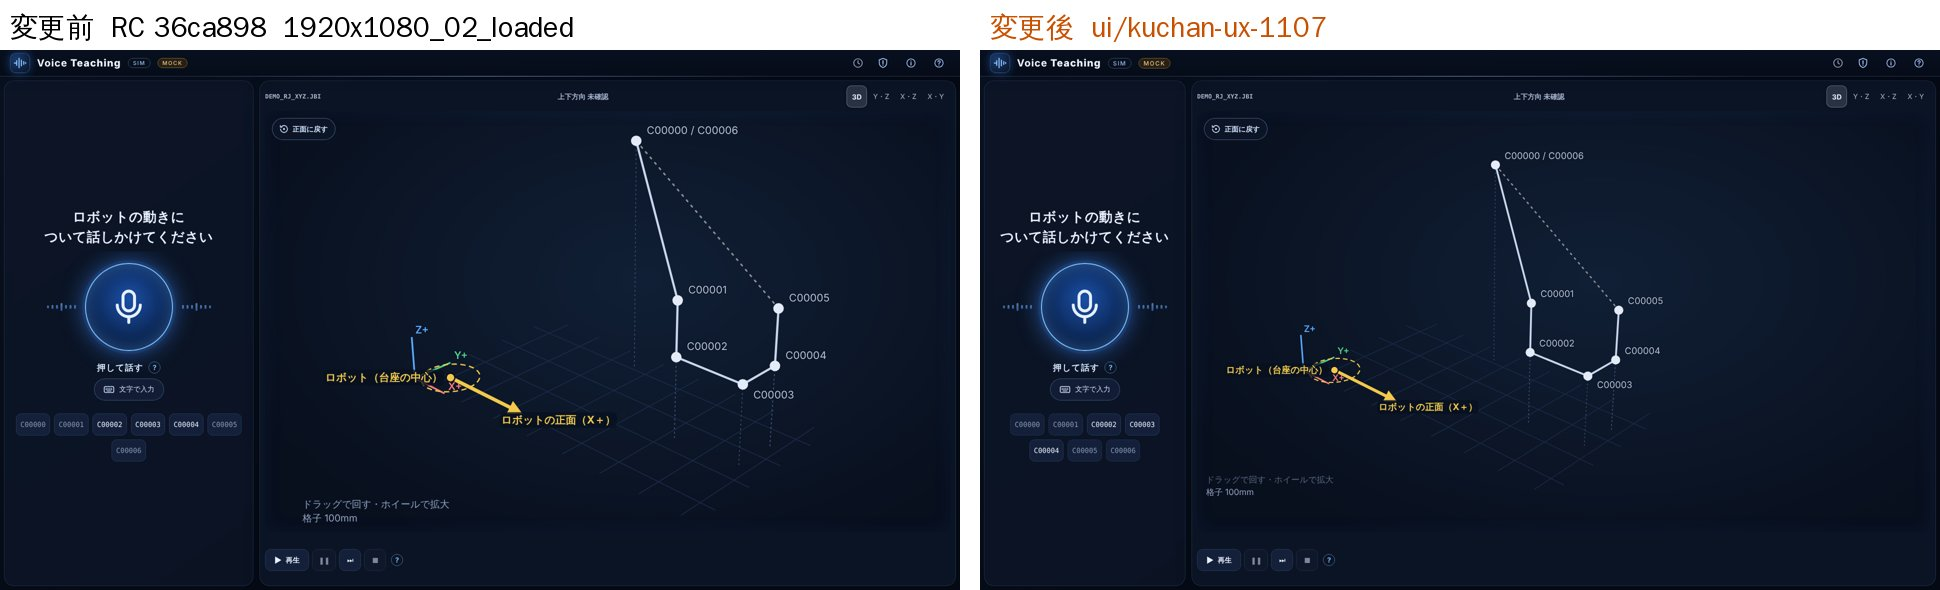
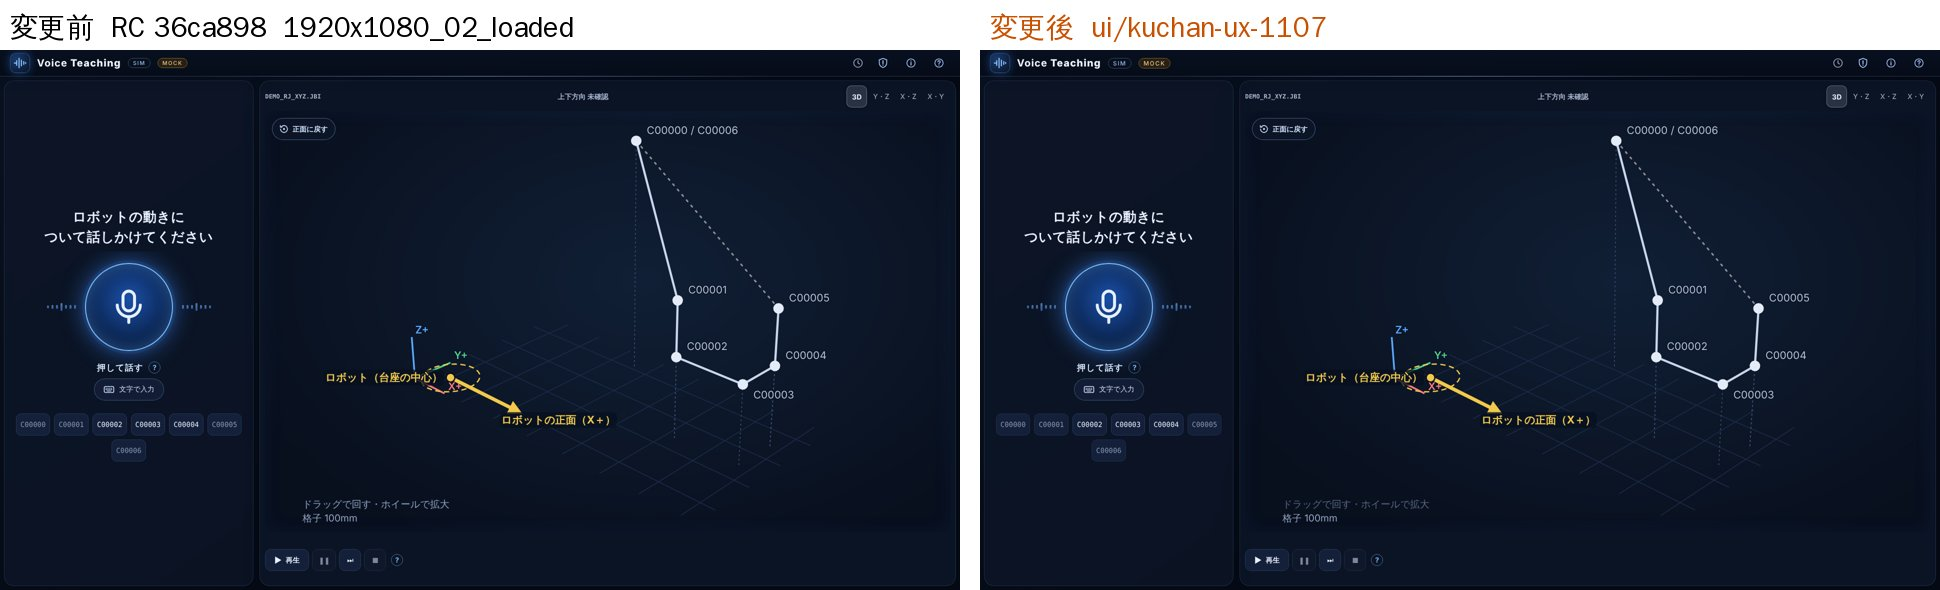
UI精査 11/7（クーちゃん）：K1 を「会話の欄の上に重ねる」置き方に変更（3D を小さくしない）・撮影の計測・報告の更新
何を：
- K1 の最初の案（3D の枠の右を空ける）は、1920 で 3D が 13% 小さくなり、e2e の 11/5 F6（3D は小さくならない）が 5件 NG、
  会話の欄を細くしたため最新の答えが切れたので捨てた
- 1100〜1499px で決まっている置き方（候補のポップアップを会話の欄の上に重ねる）を 1500px 以上にもそろえた。
  1920 の候補・確認・承認・出力で、ポップアップの下の 3D の点 3→0、3D の倍率は RC と同じ（1.754）
- K2 を 1100px 以上に（重ねたポップアップをひと続きの面に）
- tools/kuchan_ux_shots.py：ポップアップの下に隠れた点の数（pointsUnderPopup）を測る
- 比較画像 24枚・計測値・報告を更新
app.js・HTML・サーバー・安全の判定・承認・出力は変えていない。

Claude-Session: https://claude.ai/code/session_014pJhiXn87MDCBVibtKvnau

diff --git a/voice_teaching/web/static/style.css b/voice_teaching/web/static/style.css
@@ -1632,18 +1632,20 @@ body.hero #kbd-button > span { display: inline; font-size: 14px; }
    安全の表示（SIM・盾・20mm・差分・承認・止めた理由）は消さない・小さくしない。 */
 
 /* K1（P1）1500px 以上：候補のポップアップが、動かす点・変更の線・拡大の窓を隠さない。
-   JOB を読んだときから 3D の枠の右にポップアップの幅を空けておく（11/5 F7：候補の前後で 3D の点は動かさない、を守る） */
+   1100〜1499px で決めてある置き方（会話の欄の上に重ねる）を 1500px 以上にもそろえる。3D の大きさ・点の位置は変えない（11/5 F6・F7）。
+   見出し（動きを確かめてください）と、下の文字の入力欄（承認のあとの質問）はふさがない。ポップアップの中身は最新の答えと同じ候補 */
 @media (min-width: 1500px) {
-  .fig-wrap .fig-3d { right: 372px; }
-  .cand-pop { width: 356px; right: 12px; }
+  .stage { backdrop-filter: none; }  /* fixed の基準を画面にする */
+  .fig-wrap { overflow: visible; }
+  .cand-pop { position: fixed; left: 10px; right: auto; top: 112px; bottom: 150px; max-height: none; z-index: 6;
+    width: 500px; }  /* 会話の欄（left 10px・幅 500px）にぴったり重ねる */
 }
-/* 1920×1080：会話の欄を少し細くして、3D の大きさを前と同じ程度に保つ（会話の文字の大きさは変えない） */
 @media (min-width: 1700px) and (min-height: 950px) {
-  .work { grid-template-columns: clamp(380px, 21vw, 420px) minmax(0, 1fr); }
+  .cand-pop { left: 8px; width: min(26vw, 500px); top: 118px; bottom: 156px; }  /* 会話の欄（left 8px・幅 26vw）に合わせる */
 }
 
-/* K2（P2）1100〜1499px：ポップアップを会話の欄の上に重ねるとき、後ろの吹き出しが切れて覗かないよう、ひと続きの面にする */
-@media (min-width: 1100px) and (max-width: 1499px) {
+/* K2（P2）1100px 以上：ポップアップを会話の欄の上に重ねるとき、後ろの吹き出しが切れて覗かないよう、ひと続きの面にする */
+@media (min-width: 1100px) {
   .cand-pop { background: #0a1324; border-radius: 16px; box-shadow: 0 0 0 1px var(--glass-line), 0 18px 40px rgba(0, 0, 0, 0.55); }
   .cand-pop .cand-card, .cand-pop .dock-actions { box-shadow: none; }
 }

diff --git a/docs/ui-kuchan-1107/REPORT_UI_UX_KUCHAN_1107.md b/docs/ui-kuchan-1107/REPORT_UI_UX_KUCHAN_1107.md
@@ -13,7 +13,7 @@
 
 ## 1. 結論（先に）
 
-1. **P1：1920×1080（撮影の大きさ）で、候補のポップアップが「動かす点 C00004・変更のオレンジの線・C00005」を隠していた**。動画でいちばん見せたい場面で、変更の中身が見えない。→ **K1 で解消**（点は1つも隠れない。11/5 F7「候補の前後で 3D の点を動かさない」も守る）。
+1. **P1：1920×1080（撮影の大きさ）で、候補のポップアップが「動かす点 C00004・変更のオレンジの線・C00003・C00005」を隠していた**（候補・確認・承認・出力の4場面すべて）。動画でいちばん見せたい場面で、変更の中身が見えない。→ **K1 で解消**：1100〜1499px で既に決まっている置き方（会話の欄の上に重ねる）を 1500px 以上にもそろえた。**隠れる点 3→0、3D の大きさは RC と同じ**（11/5 F6・F7 を守る）。
 2. 1280〜1440 で、会話の上に重ねたポップアップの隙間から、後ろの吹き出しが切れて覗いていた → **K2 で解消**。
 3. 他は P2〜P3 の磨き込み（K3〜K8）。文言や動きの変更が要るものは**提案だけ**（4章）。シクロの app.js・安全の文は触っていない。
 4. テスト：pytest・Node・e2e の結果は 5章。
@@ -25,8 +25,8 @@
 
 | 観点 | 見つけたこと（事実） | 重さ | 対応 |
 |---|---|---|---|
-| 大きく見やすい 3D | 1920：候補のポップアップ（右下 380px）が C00003〜C00005・変更の線・拡大の窓の一部を覆う | **P1** | **K1 実装** |
-| 大きく見やすい 3D | 3D の面積：1920 で画面の 55.7%、1440 で 46.8%、1280 で 42.6% | — | K1 のあとも 1920 で同程度を保つ（会話の欄を 460→420px） |
+| 大きく見やすい 3D | 1920：候補のポップアップ（3D の右下 380px）が C00003・C00004・C00005 と変更の線を覆う（測定：`pointsUnderPopup`） | **P1** | **K1 実装** |
+| 大きく見やすい 3D | 3D の面積：1920 で画面の 55.7%、1440 で 46.8%、1280 で 42.6% | — | K1 のあとも同じ（描く倍率 1.754／1.245／1.033 で前後同じ） |
 | 会話を覆わない | 1100〜1499：ポップアップは会話の欄の上に重ねる仕様（前の決定）。隙間から切れた吹き出しが覗く | P2 | **K2 実装**（ひと続きの面にした） |
 | ボタンの配置 | 1920：「シミュレーション用に出力（合成ジョブだけ・実機に入れない）」が細いボタンで3行に折り返す | P2 | **K3 実装**（1500px 以上で横いっぱい→2行。文は省かない） |
 | 空送信 | 入力欄が空でも「送る」が押せる見た目（押しても JS が無視するので送らない。安全上の問題ではない） | P2 | **K4 実装**（空のときは薄く・押せない見た目） |
@@ -41,9 +41,8 @@
 
 | ID | 内容 | 大きさ | 前→後（測った値） |
 |---|---|---|---|
-| K1 | JOB を読んだときから 3D の枠の右にポップアップの幅（372px）を空けて、点を収める。ポップアップは 356px | ≥1500px | 1920 の候補・承認・出力の場面：**ポップアップの下の点 3つ → 0**（`pointsUnderPopup`）。候補の前後で点は動かない（F7） |
-| K1 | 1920×1080 だけ会話の欄 `clamp(400,24vw,470)`→`clamp(380,21vw,420)` | ≥1700×950 | 3D の描かれる大きさはほぼ同じ（右を空けた分を左で取り戻す） |
-| K2 | 会話の上に重ねたポップアップを、背景つきのひと続きの面に | 1100〜1499px | 覗いていた吹き出しの切れ端が消えた |
+| K1 | 候補のポップアップを、会話の欄の上にぴったり重ねる（1100〜1499px の今の決まりと同じ置き方）。見出しと下の文字の入力欄はふさがない | ≥1500px | 1920 の候補・確認・承認・出力の4場面：**ポップアップの下の点 3つ → 0**。3D の倍率 1.754→1.754（変わらない）。候補の前後で点は動かない（F7） |
+| K2 | 会話の上に重ねたポップアップを、背景つきのひと続きの面に | ≥1100px | 覗いていた吹き出しの切れ端が消えた |
 | K3 | 主なボタン（確認して承認へ・出力）を横いっぱいに。「元に戻す」はその下 | ≥1500px | 出力のボタンの文 3行→2行 |
 | K4 | 空のとき「送る」を薄く・押せない見た目に | 全部 | — |
 | K5 | 吹き出しの「人」の文字を消す（アイコンは残す）・短い発話の空きをなくす | 全部 | — |
@@ -53,7 +52,9 @@
 
 ### 3-1. やめた案（理由つき）
 - K3 を 1280・1440 にも広げる案：「元に戻す」が1行増え、承認のあとの「ロボットへの送信：していません」がポップアップのスクロールの下に隠れた（1280×720 で確認）。**安全の表示を優先して 1500px 以上だけ**にした。
-- 候補が出たときだけ 3D を縮める案：11/5 F7（候補の前後で点を動かさない）に反するのでやめ、最初から右を空ける形にした。
+- 候補が出たときだけ 3D を縮める案：11/5 F7（候補の前後で点を動かさない）に反するのでやめた。
+- **K1 の最初の案（JOB を読んだときから 3D の枠の右に 372px を空ける）**：点は隠れなくなったが、1920 で 3D の倍率が 1.754→1.521（**13% 小さい**）になり、e2e の 11/5 F6「3D は小さくならない」が 5件 NG、会話の欄を細くしたため「最新の答えが会話の欄で切れる」も出た。**3D を大きく見せる方を優先して捨てた**。
+- 今の K1 は、計画の「候補パネルが会話を覆わない」と字面では合わない。ただし 1100〜1499px では前から同じ置き方が決まっていて、ポップアップの中身は最新の答えと同じ候補（対象・差分・注意・承認の状態）、下の文字の入力欄は見えたまま。**覆うのは候補を確かめている間だけ**。この判断は唐川さんに確認したい（8章）。
 
 ## 4. シクロへの提案（app.js・文言・HTML が要るので、実装していない）
 
@@ -85,7 +86,7 @@
 - **取り込みの状態：未統合**（RC には入っていない）。取り込むかはシクロが差分・テストを見て判断し、唐川さんが承認。
 - 取り込み方：`ui/kuchan-ux-1107` の style.css の変更は**末尾の1つの塊だけ**なので、`git cherry-pick <SHA>` か、塊をそのまま RC の style.css の末尾に貼れば入る。戻すときは塊ごと消せばよい。
 - ぶつかり：RC で style.css の末尾を同時に直していると、末尾でぶつかる可能性がある（中身は独立なので、両方残せばよい）。
-- 動画との関係：K1 は**1920×1080 の撮影の見え方を良くする**（候補の場面で変更の点が隠れない）。12時の判定で動画用の SHA を決める前に取り込むのがよい。取り込まないなら、撮影は候補のポップアップが点にかぶらない JOB・視点を選ぶ必要がある。
+- 動画との関係：K1 は**1920×1080 の撮影の見え方を良くする**（候補の場面で変更の点とオレンジの線が隠れない）。12時の判定で動画用の SHA を決める前に取り込むのがよい。取り込まないなら、撮影では候補のポップアップが点にかぶらない JOB・視点を選ぶ必要がある（DEMO_RJ_XYZ の C00004 はかぶる）。
 - 安全の観点：表示の位置・大きさ・余白だけ。承認・出力のボタンの押せる／押せない、文、サーバーの状態は変えていない（e2e の承認・出力・古い候補の確認がそのまま通る）。
 
 ## 7. 午後に要ること・ほかの担当への依頼
@@ -93,3 +94,7 @@
 - クローク：取り込んだ RC で、1920・1440・1280 の候補・承認・出力の見え方を回帰確認
 - チャッピー：動画の候補の場面は K1 入りの SHA で撮るのがよい（変更の点とオレンジの線が見える）
 - コック：S2・S6・S7 の画面の修正を手伝ってもらえると早い（style.css の私の塊とは別の場所）
+
+## 8. 唐川さんに確認したいこと
+1. K1：1500px 以上でも、候補を確かめている間は**ポップアップを会話の欄の上に重ねてよいか**（1100〜1499px と同じ）。だめなら、3D を 13% 小さくして右を空ける案（3-1）か、今のまま（点が隠れる）になる。
+2. S1（入力欄の例を自然な言い方に）・S5（確認表示の注意の段落の整理・★安全の文）を進めてよいか。
